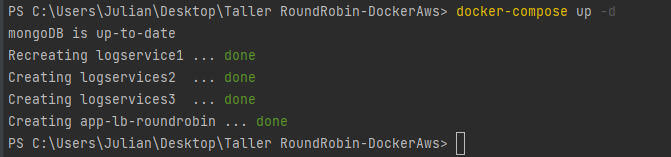
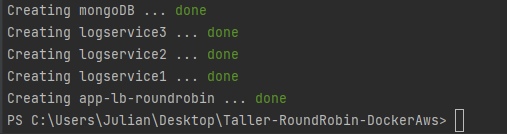
Update Readme

Changed region(s): [[0.0, 0.1791, 0.9172, 1.0], [0.0, 0.0299, 0.9172, 0.1493]]

diff --git a/RoundRobin/src/main/resources/static/index.html b/RoundRobin/src/main/resources/static/index.html
@@ -7,6 +7,7 @@
     <!-- Bootstrap CSS -->
     <link rel="stylesheet" href="https://stackpath.bootstrapcdn.com/bootstrap/4.1.3/css/bootstrap.min.css" integrity="sha384-MCw98/SFnGE8fJT3GXwEOngsV7Zt27NXFoaoApmYm81iuXoPkFOJwJ8ERdknLPMO" crossorigin="anonymous">
     <title>Services</title>
+
 </head>
 <center>
     <body>
@@ -30,11 +31,11 @@
             </tbody>
         </table>
     </div>
-    <script type="text/javascript" src="js/App.js" ></script>
     <script src="https://code.jquery.com/jquery-3.3.1.slim.min.js" integrity="sha384-q8i/X+965DzO0rT7abK41JStQIAqVgRVzpbzo5smXKp4YfRvH+8abtTE1Pi6jizo" crossorigin="anonymous"></script>
     <script src="https://cdnjs.cloudflare.com/ajax/libs/popper.js/1.14.3/umd/popper.min.js" integrity="sha384-ZMP7rVo3mIykV+2+9J3UJ46jBk0WLaUAdn689aCwoqbBJiSnjAK/l8WvCWPIPm49" crossorigin="anonymous"></script>
     <script src="https://stackpath.bootstrapcdn.com/bootstrap/4.1.3/js/bootstrap.min.js" integrity="sha384-ChfqqxuZUCnJSK3+MXmPNIyE6ZbWh2IMqE241rYiqJxyMiZ6OW/JmZQ5stwEULTy" crossorigin="anonymous"></script>
     <script src="https://unpkg.com/axios/dist/axios.min.js"></script>
+    <script type="text/javascript" src="js/App.js" ></script>
     </body>
 </center>
 </html>

diff --git a/init-mongo.js b/init-mongo.js
@@ -1,7 +1,7 @@
 db.createUser(
     {
-        user:"julian",
-        pwd:"julian24",
+        user:"Admin",
+        pwd:"Admin",
         roles:[{
             role:"readWrite",
             db:"RoundRobinService"

diff --git a/README.md b/README.md
@@ -18,8 +18,8 @@ que tiene el siguiente contenido
             container_name: mongoDB
             environment:
               MONGO_INITDB_DATABASE: RoundRobinService
-              MONGO_INITDB_ROOT_USERNAME: julian
-              MONGO_INITDB_ROOT_PASSWORD: julian24
+              MONGO_INITDB_ROOT_USERNAME: Admin
+              MONGO_INITDB_ROOT_PASSWORD: Admin
             volumes:
               - ./init-mongo.js:/docker-entrypoint-initdb.d/init-mongo.js:ro
               - mongodb:/data/db
@@ -47,7 +47,7 @@ que tiene el siguiente contenido
               dockerfile: Dockerfile
             depends_on:
               - db
-            container_name: logservices1
+            container_name: logservice1
             ports:
               - "35001:6000"
         
@@ -57,7 +57,7 @@ que tiene el siguiente contenido
               dockerfile: Dockerfile
             depends_on:
               - db
-            container_name: logservices2
+            container_name: logservice2
             ports:
               - "35002:6000"
         
@@ -67,7 +67,7 @@ que tiene el siguiente contenido
               dockerfile: Dockerfile
             depends_on:
               - db
-            container_name: logservices3
+            container_name: logservice3
             ports:
               - "35003:6000"
         
